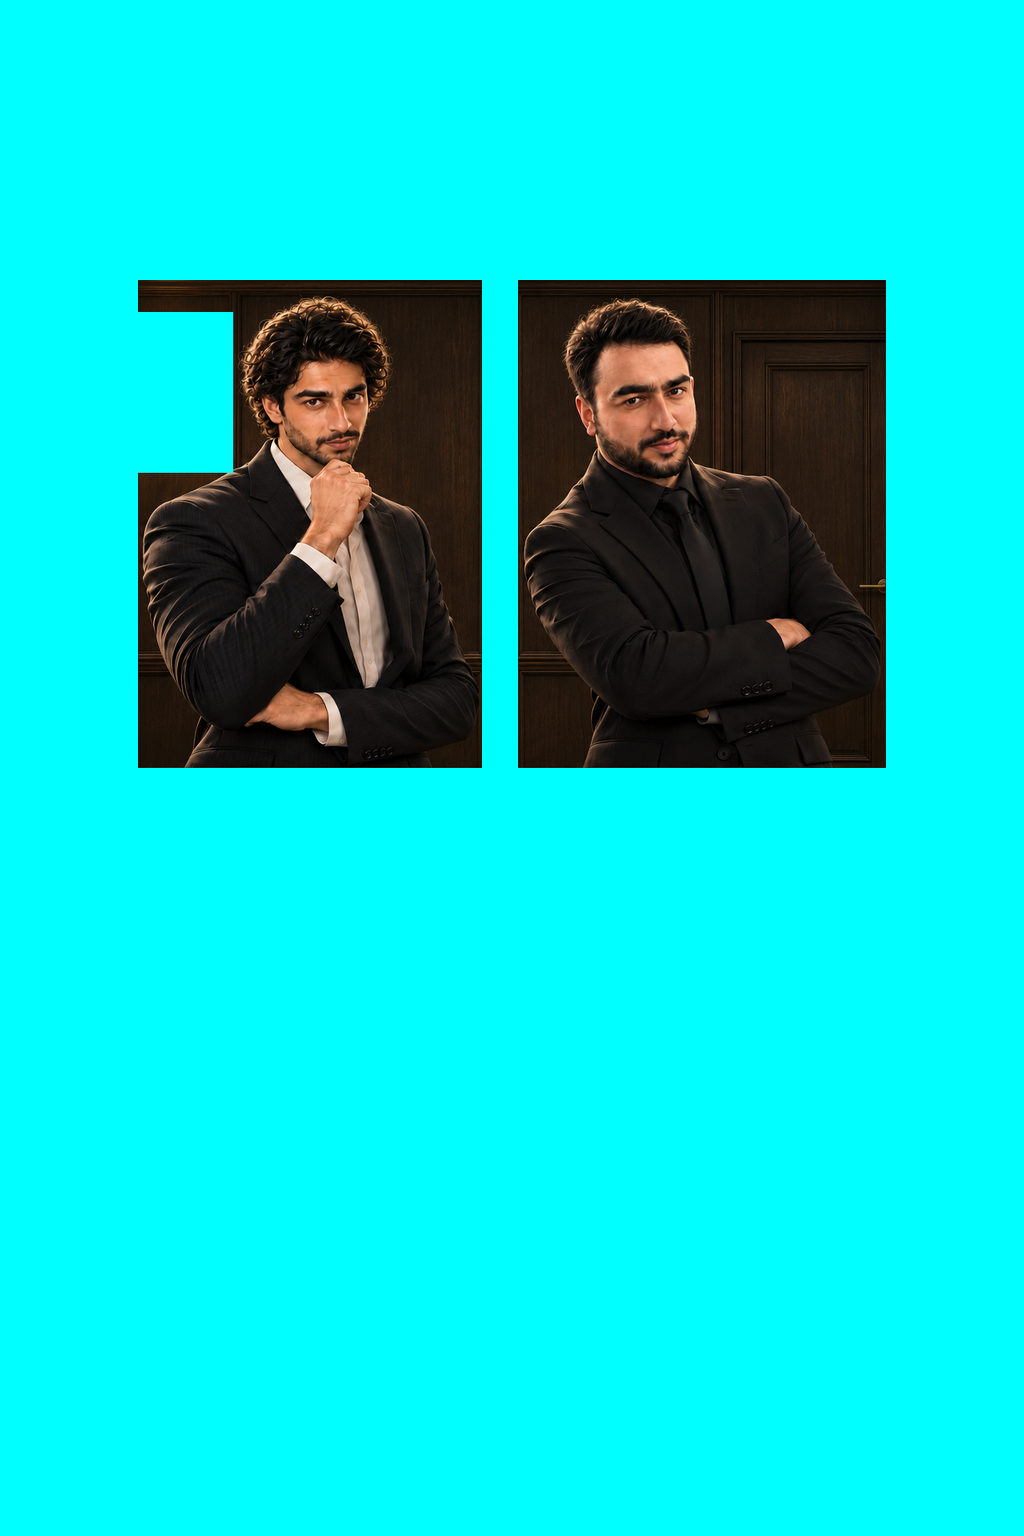
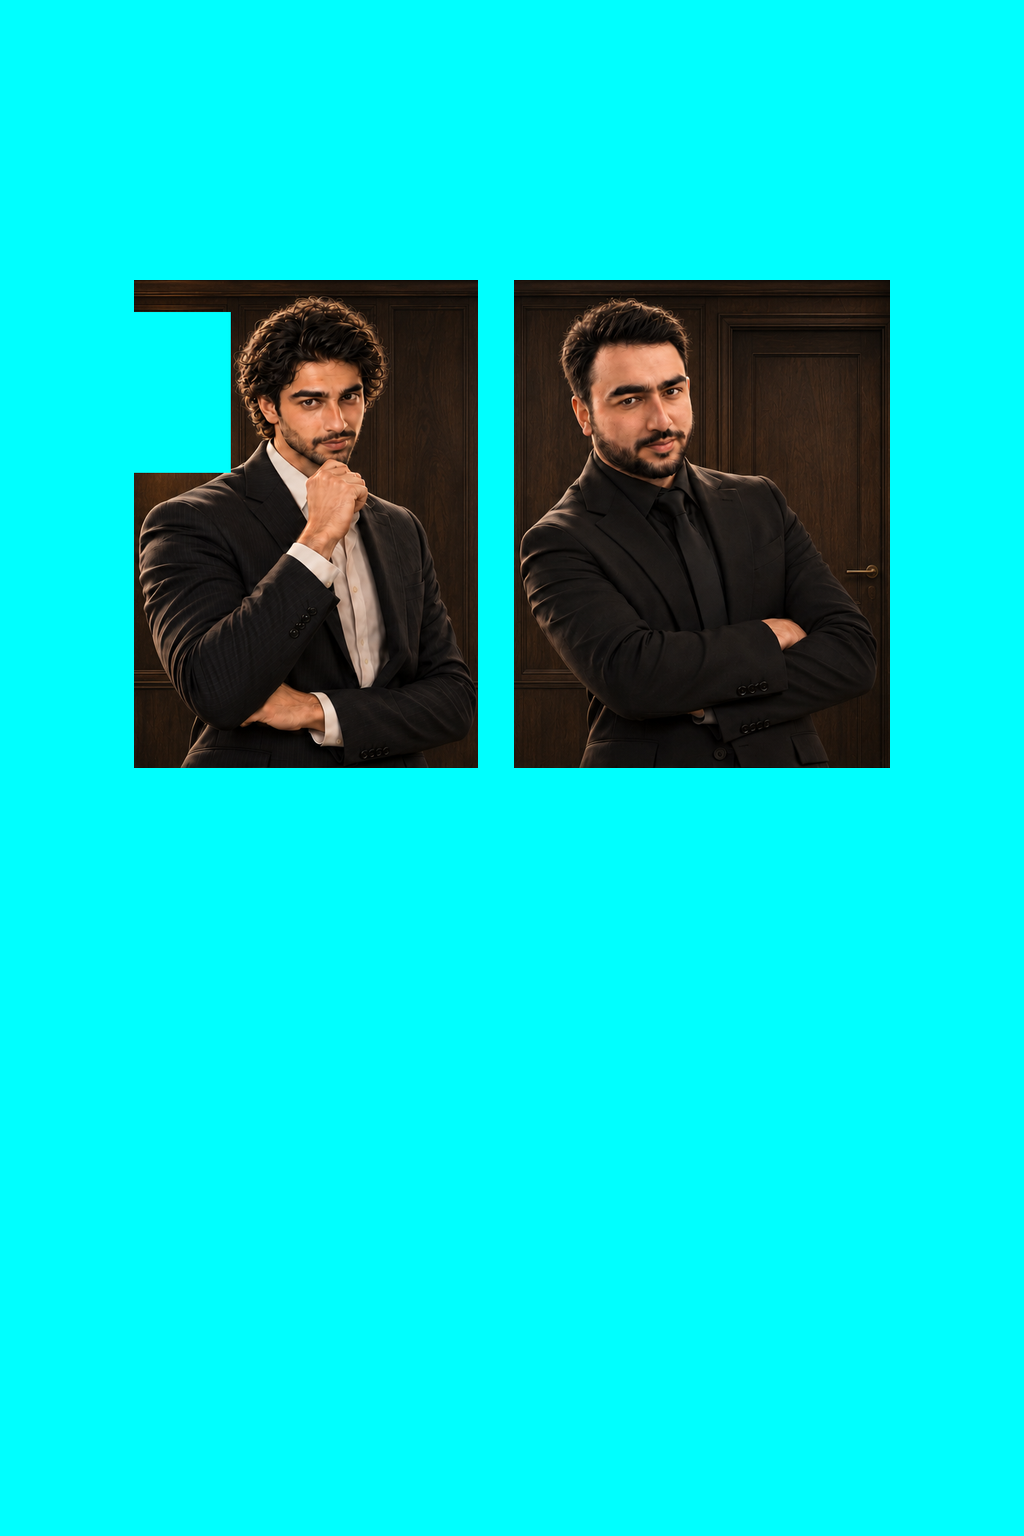
HC 04 V2 try 2 accepted; HC 05 guide + RC_BOARD_V2 rebuilt from it
Claude-Session: https://claude.ai/code/session_01GU43Q55MWFc5kxaqRPspjd

diff --git a/project-documents/factory/tickets/attach/HC/README.md b/project-documents/factory/tickets/attach/HC/README.md
@@ -8,6 +8,6 @@
 - V2 (9 Nov 2026): Nik picked RICH; Claude picked try 1 of 7 (chairs face each other across the table, round laced ball). Raw: reviews/HC/HC01_LOUNGE_D_V2R_PICK.png.
 - GUIDE_HC02_LOUNGE_P_V2.png: same box as V1 (x 470-1525, y 160-886) from the V2 pick, lip at 50%, guide_from_room.py.
 - RC_LOUNGE_V2.png: room card with no people: the left lounge (x 0-470) and the right pier with its lamp (x 1240-1536) side by side.
-- HC 04 V2 (board room) try 1 accepted 9 Nov (reviews/HC/HC04_BOARD_D_V2_TRY1.png); the Rich chair and tray did not appear (they sit at the cut-off far left, only visible at 16:9).
-- GUIDE_HC05_BOARD_P.png: one box per man from HC 04 V2 (Daniel x 130-560, Nik x 970-1430, y 130-740), scale 0.8, side by side with a 36 px gap, lip at 50%, the half-cut wall lamp painted cyan; guide_two_boxes.py.
+- HC 04 V2 (board room) try 2 accepted 9 Nov (reviews/HC/HC04_BOARD_D_V2_TRY2.png; lamp further from Daniel than try 1); the Rich chair and tray did not appear (they sit at the cut-off far left, only visible at 16:9).
+- GUIDE_HC05_BOARD_P.png: one box per man from HC 04 V2 try 2 (Daniel x 130-560, Nik x 970-1440, y 130-740), scale 0.8, side by side with a 36 px gap, lip at 50%, the half-cut wall lamp painted cyan; guide_two_boxes.py.
 - RC_BOARD_V2.png: room card with no people: the bare centre oak panel with lip and counter, the wall lamp, and the right marble pilaster.
